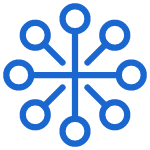
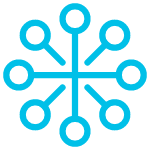
Rebranding

diff --git a/src/pages/index.js b/src/pages/index.js
@@ -17,7 +17,7 @@ import styles from "./styles.module.css";
 const features = [
   {
     title: <>What is Prisma?</>,
-    imageUrl: "img/prisma_blue.png",
+    imageUrl: "img/prismalogo.png",
     description: (
       <>
         Prisma is a comprehensive cloud security suite that allows organizations to protect their users, 
@@ -120,16 +120,6 @@ function Home() {
                   onClick={scrollToTools}
                 >
                   Explore Tools
-                </Link>
-                <Link
-                  className={classnames(
-                    "button button--outline button--info button--lg",
-                    styles.getStarted
-                  )}
-                  href="register"
-                  target="_blank"
-                >
-                  Register
                 </Link>
               </div>
             </div>

diff --git a/src/css/custom.css b/src/css/custom.css
@@ -14,15 +14,13 @@
 /* You can override the default Infima variables here. */
 
 :root {
-  --ifm-color-primary: #1a67d0;
-  --ifm-color-primary-dark: #5E93DE;
-  --ifm-color-primary-darker: #4784D9;
-  --ifm-color-primary-dt: #3075D4;
-  --ifm-color-primary-light: 	#75A3E2;
-  --ifm-color-primary-lighter: #8CB2E7;
-  --ifm-color-primary-lightest: #A3C1EC;
-  --ifm-color-info: #1a67d0;
-  --ifm-link-color: #1a67d0;
+  --ifm-color-primary: #00c0e8;
+  --ifm-color-primary-dark: #00add1;
+  --ifm-color-primary-darker: #00a3c5;
+  --ifm-color-primary-darkest: #0086a2;
+  --ifm-color-primary-light: #00d3ff;
+  --ifm-color-primary-lighter: #0cd5ff;
+  --ifm-color-primary-lightest: #2fdbff;
   --ifm-navbar-search-input-color: var(--ifm-color-gray-900);
 }
 

diff --git a/docusaurus.config.js b/docusaurus.config.js
@@ -54,12 +54,12 @@ module.exports = {
         {
           href: "https://medium.com/palo-alto-networks-developer-blog",
           label: "Blog",
-          position: "left"
+          position: "right"
         },
         {
           href: "https://github.com/PaloAltoNetworks",
           label: "GitHub",
-          position: "left"
+          position: "right"
         }
       ]
     },

diff --git a/src/pages/styles.module.css b/src/pages/styles.module.css
@@ -66,7 +66,7 @@
   color: white;
   text-align: center;
   justify-content: center;
-  background-color: #a4a9ad;
+  background-color: #807C7B;
   clip-path: polygon(50% 0%, 100% 10%, 100% 100%, 0 100%, 0 10%);
 }
 
@@ -143,5 +143,5 @@
 }
 
 .text__blue {
-  color: #1a67d0 !important;
+  color: #00C0E8 !important;
 }

diff --git a/sidebars.js b/sidebars.js
@@ -13,7 +13,8 @@ module.exports = {
       items: [
         "cloud_api",
         "compute_api",
-        "twistcli_gs"
+        "twistcli_gs",
+        "iac_api",
     ]
     },
   ],

diff --git a/docs/iac_api.md b/docs/iac_api.md
@@ -6,7 +6,7 @@ sidebar_label: IaC Scan API
 
 ### Scan CloudFormation, Terraform, Kubernetes deployment YAML files for security issues.
 
-> Prisma Public Cloud IaC Scan API will require authentication from Prisma Cloud product after Dec. 17th, 2019. We offer full functionality 30 day trial for Prisma Cloud product here - https://marketplace.paloaltonetworks.com/s/product-rdl
+> Prisma Public Cloud IaC Scan API requires authentication from Prisma Cloud. We offer full functionality 30 day trial for Prisma Cloud product here - https://marketplace.paloaltonetworks.com/s/product-rdl
 
 Prisma Public Cloud IaC Scan API is a public service that helps DevOps and security teams identify insecure configuration in their IaC so they can fix them before deploying the infrastructure to runtime. The service accepts IaC templates and provides scan results with details about the insecure configurations in the templates. You can use this service to scan popular formats such as AWS CloudFormation Templates, HashiCorp Terraform templates and Kubernetes App Deployment YAML files.
 
